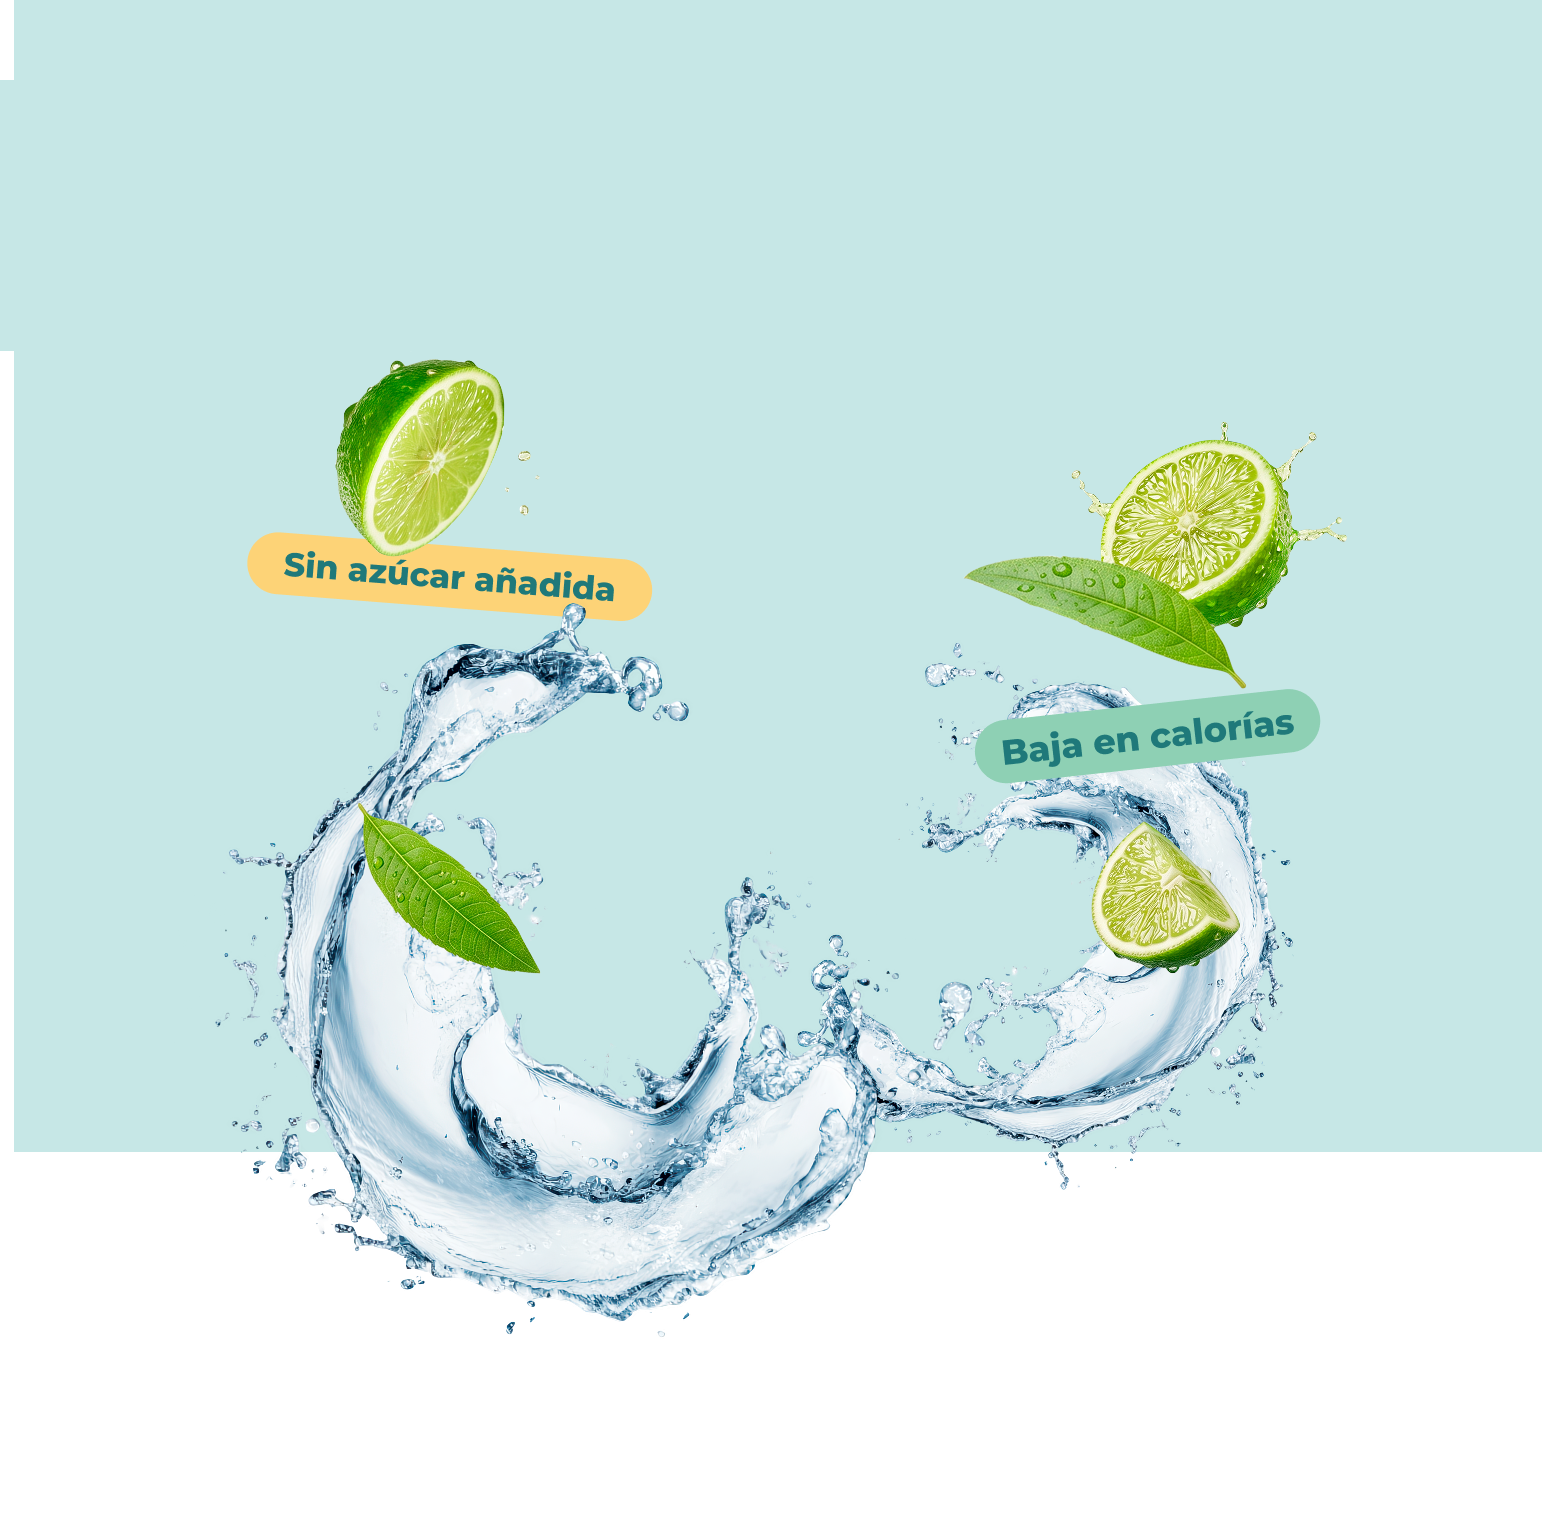
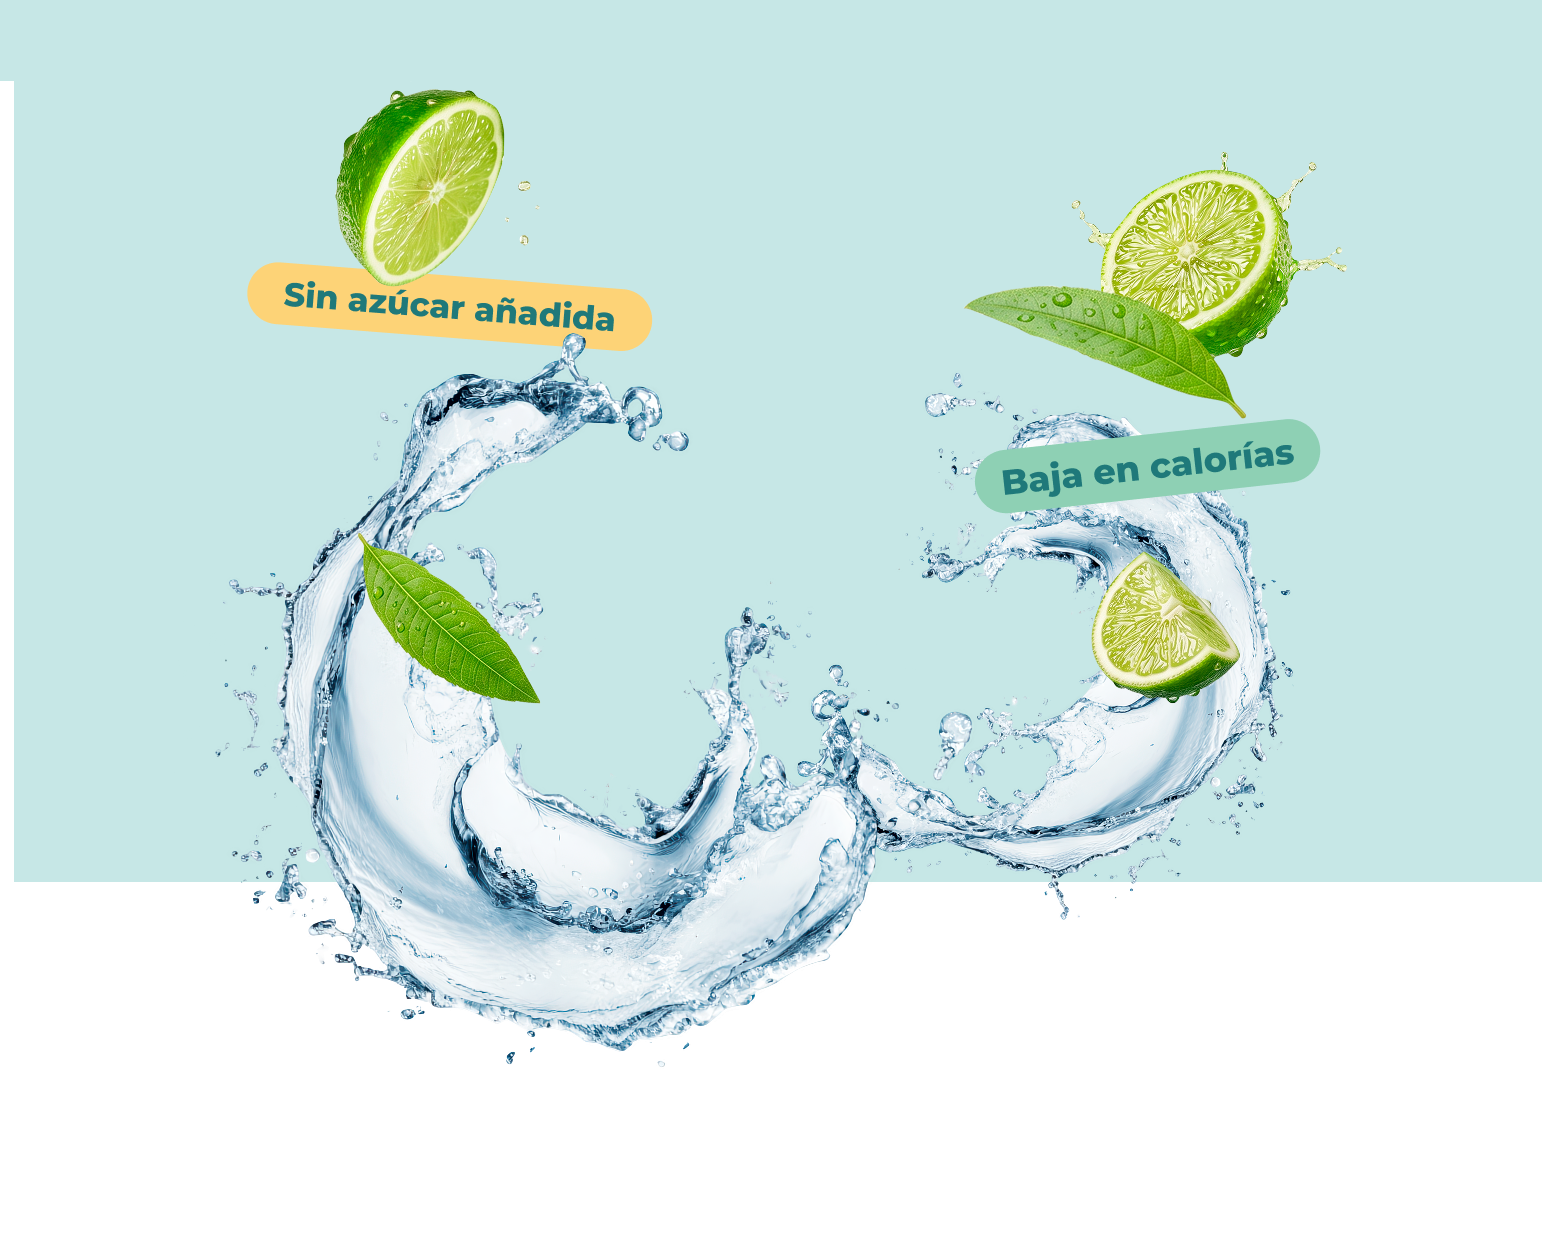
Movil: boton hero compacto/alineado + titulo parte2 sin encimarse
- Boton "Pruebala ahora": regla compacta en TODO el rango movil (<=820, no solo
  <=640) para que no crezca en telefonos anchos; alineado a la izq. del titulo
- parte2: el titulo/subtitulo HTML sale FUERA de __inner (bloque normal sobre
  aqua) para no encimarse sobre el splash; imagen movil (parte2-clean.png)
  recortada por arriba para cerrar el hueco, con la lata reencajada (vars l3d)

Changed region(s): [[0.0, 0.0624, 1.0, 0.8736], [0.0, 0.0, 0.0311, 0.2496], [0.5914, 0.312, 0.6226, 0.3432]]

diff --git a/wp-content/themes/astra-child/style.css b/wp-content/themes/astra-child/style.css
@@ -252,13 +252,14 @@ html { scroll-behavior: smooth; }
 	transform: none;
 }
 /* En movil el boton del hero debe ser COMPACTO (no gigante) y alineado bajo el
-   titulo. Tamano proporcional al ancho del telefono. */
-@media (max-width: 640px) {
+   titulo "Un sorbo de vitalidad". Se aplica en TODO el rango movil (<=820) para
+   que no crezca en telefonos anchos (641-820). */
+@media (max-width: 820px) {
 	.spirup-figura__cta {
-		left: 6.5%;
-		top: 61%;
-		font-size: clamp(12px, 3.5vw, 16px);
-		padding: clamp(8px, 2.3vw, 13px) clamp(16px, 5vw, 30px);
+		left: 8.5%;                 /* alineado con el borde izq. del titulo */
+		top: 60%;
+		font-size: clamp(11px, 2.9vw, 15px);
+		padding: clamp(7px, 1.7vw, 11px) clamp(14px, 3.6vw, 22px);
 	}
 }
 
@@ -347,30 +348,32 @@ html { scroll-behavior: smooth; }
    en la imagen). Centrado y mas grande, sobre la franja aqua superior. */
 .spirup-parte2__head { display: none; }
 @media (max-width: 820px) {
+	/* Bloque normal (NO absolute) sobre fondo aqua identico al de la imagen, asi
+	   fluye arriba de la composicion sin encimarse sobre el splash. */
 	.spirup-parte2__head {
 		display: block;
-		position: absolute;
-		top: 3%;
-		left: 50%;
-		transform: translateX(-50%);
-		width: 90%;
 		text-align: center;
-		z-index: 3;
+		background: #c6e7e6;
+		padding: clamp(18px, 5vw, 36px) 6% clamp(4px, 1vw, 10px);
 	}
 	.spirup-parte2__title {
 		color: #17343d;
 		font-weight: 800;
-		line-height: 1.12;
-		font-size: clamp(21px, 6vw, 30px);
-		margin: 0 0 0.4em;
+		line-height: 1.14;
+		font-size: clamp(22px, 6.2vw, 32px);
+		margin: 0 auto 0.45em;
 	}
 	.spirup-parte2__sub {
 		color: #355a5e;
-		line-height: 1.35;
-		font-size: clamp(13px, 3.5vw, 17px);
-		margin: 0;
+		line-height: 1.4;
+		font-size: clamp(14px, 3.6vw, 18px);
+		margin: 0 auto;
+		max-width: 34ch;
 	}
 	.spirup-parte2__sub strong { font-weight: 700; }
+	/* La imagen movil (parte2-clean.png) va recortada por arriba, asi que la
+	   lata estatica se reencaja para calzar con el splash. */
+	.spirup-parte2__inner { --l3d-top: 8.8%; --l3d-height: 85%; }
 }
 
 /* Capa frontal (agua/limones/badges): va POR DELANTE de la lata, calcada sobre

diff --git a/wp-content/themes/astra-child/front-page.php b/wp-content/themes/astra-child/front-page.php
@@ -28,14 +28,15 @@ $img = get_stylesheet_directory_uri() . '/imagenes';
 
 	<?php /* ===================== PARTE 2 ===================== */ ?>
 	<section class="spirup-parte2">
-		<div class="spirup-parte2__inner">
-			<?php /* Titulo/subtitulo como HTML: solo en MOVIL (para agrandarlo y
-				centrarlo). En escritorio el texto va horneado en la imagen. */ ?>
-			<div class="spirup-parte2__head">
-				<h2 class="spirup-parte2__title">Una lata con ciencia adentro</h2>
-				<p class="spirup-parte2__sub"><strong>355 ml de bebida gasificada</strong> formulada con un bioactivo reconocido por su potencial antioxidante.</p>
-			</div>
+		<?php /* Titulo/subtitulo como HTML: solo en MOVIL (para agrandarlo y centrarlo
+			SIN encimarse sobre el splash). En escritorio el texto va horneado en la imagen.
+			Va FUERA de __inner para no afectar la posicion de la lata. */ ?>
+		<div class="spirup-parte2__head">
+			<h2 class="spirup-parte2__title">Una lata con ciencia adentro</h2>
+			<p class="spirup-parte2__sub"><strong>355 ml de bebida gasificada</strong> formulada con un bioactivo reconocido por su potencial antioxidante.</p>
+		</div>
 
+		<div class="spirup-parte2__inner">
 			<?php /* Composicion (agua + badges + onda). En MOVIL se usa la version
 				SIN texto (parte2-clean.png) para no duplicar el titulo HTML. */ ?>
 			<picture>
